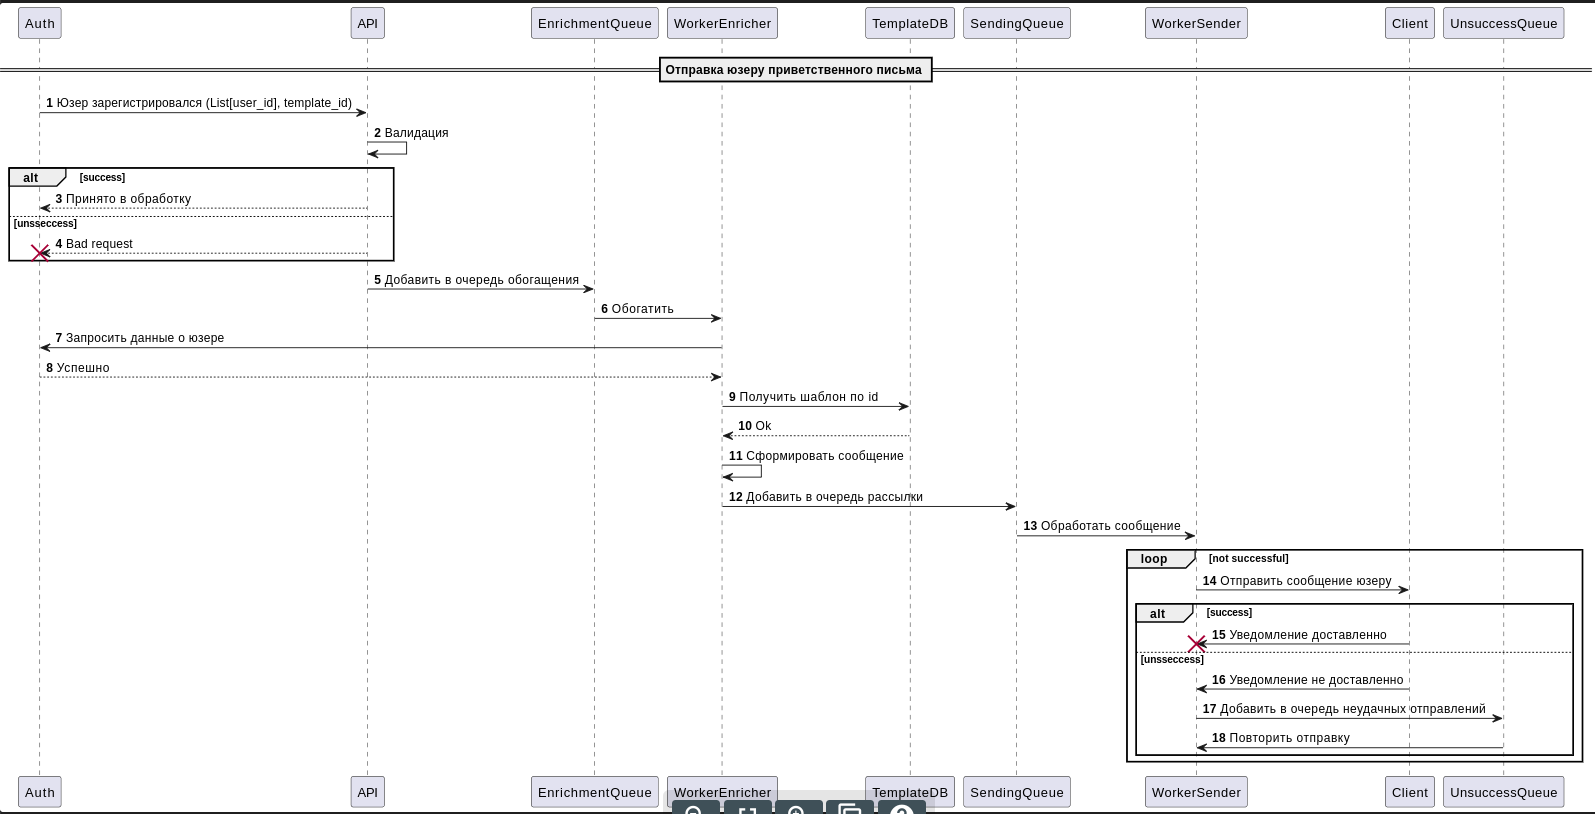
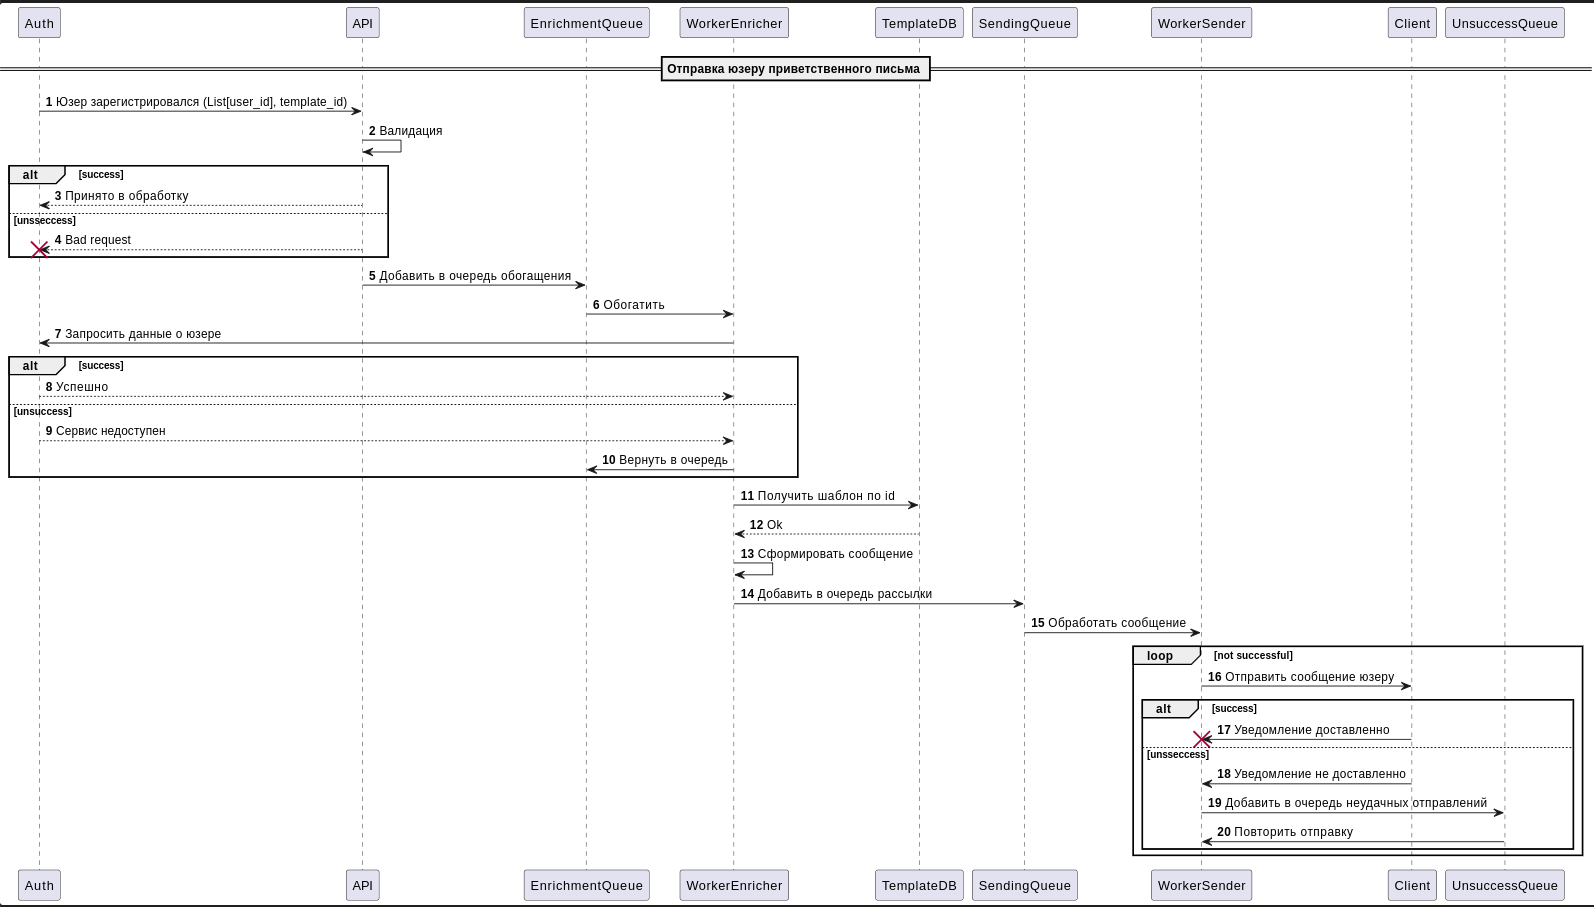
Add request to Auth (#18)

diff --git a/enricher/app/utils.py b/enricher/app/utils.py
@@ -1,9 +1,33 @@
+import aiohttp
+
+from enricher.configs.settings import config
+from enricher.configs.logger import logger
+
+
 async def get_user_info(user_id):
-    # Тут должен быть запрос к Auth
-    return {'email': 'user@mail.com', 'name': 'John'}
+    url = f"{config.auth_url}{user_id}"
+    headers = {"Authorization": f"Bearer {config.auth_token}"}
+
+    async with aiohttp.ClientSession() as session:
+        try:
+            async with session.get(url, headers=headers) as response:
+                if response.status == 200:
+                    data = await response.json()
+                    email = data.get("email")
+                    name = data.get("name")
+                    return {"email": email, "name": name}
+                else:
+                    error_message = (
+                        f"Failed to fetch user info (Status Code: {response.status})"
+                    )
+                    logger.error(str(error_message))
+                    return None
+        except aiohttp.ClientConnectorError as e:
+            logger.error(str(e))
+            return None
 
 
 async def get_template(template_id):
     # Тут должен быть запрос к TemplateDB
-    template_content = 'Привет, {{ name }}! Поздравляем с регистрацией аккаунта в нашем сервисе!'  # noqa
+    template_content = "Привет, {{ name }}! Поздравляем с регистрацией аккаунта в нашем сервисе!"  # noqa
     return template_content

diff --git a/enricher/app/handler.py b/enricher/app/handler.py
@@ -5,8 +5,9 @@ from enricher.app.utils import get_template, get_user_info
 
 
 class MessageHandler:
-    def __init__(self, producer) -> None:
+    def __init__(self, producer, backoff) -> None:
         self.producer = producer
+        self.backoff = backoff
 
     async def send_message(self, message):
         recipient_ids = message["recipients"]
@@ -14,7 +15,10 @@ class MessageHandler:
 
         for recipient in recipient_ids:
             user_info = await get_user_info(recipient)
-            message = await render(template, user_info)
-            await self.producer.send_message(
-                json.dumps({"email": user_info["email"], "message": message})
-            )
+            if user_info:
+                message = await render(template, user_info)
+                await self.producer.send_message(
+                    json.dumps({"email": user_info["email"], "message": message})
+                )
+            else:
+                await self.backoff.send_message(json.dumps(json.dumps(message)))

diff --git a/enricher/configs/logger.py b/enricher/configs/logger.py
@@ -1,0 +1,20 @@
+import logging
+
+from enricher.configs.settings import config
+
+
+class ModuleNameFormatter(logging.Formatter):
+    def format(self, record):
+        record.module_name = record.name
+        return super().format(record)
+
+
+LOG_FORMAT = "%(asctime)s - %(levelname)s - %(module_name)s - %(message)s"
+formatter = ModuleNameFormatter(LOG_FORMAT)
+
+handler = logging.StreamHandler()
+handler.setFormatter(formatter)
+
+logger = logging.getLogger(__name__)
+logger.addHandler(handler)
+logger.setLevel(config.loglevel)

diff --git a/enricher/main.py b/enricher/main.py
@@ -16,7 +16,10 @@ async def main():
     producer = RabbitMQProducer(
         queue_name=config.sending_queue, connection=rabbit.connection
     )
-    handler = MessageHandler(producer)
+    backoff = RabbitMQProducer(
+        queue_name=config.enrichment_queue, connection=rabbit.connection
+    )
+    handler = MessageHandler(producer, backoff)
     try:
         await consumer.start_consuming(handler.send_message)
     finally:

diff --git a/enricher/configs/settings.py b/enricher/configs/settings.py
@@ -5,6 +5,9 @@ class AppSettings(BaseSettings):
     enrichment_queue: str = "queue"
     sending_queue: str = "queue"
     rabbit_url: str = "url"
+    auth_url: str = 'url'
+    auth_token: str = 'token'
+    loglevel: str = 'INFO'
 
     model_config = SettingsConfigDict(
         env_file="enricher/.env", env_file_encoding="utf-8"
